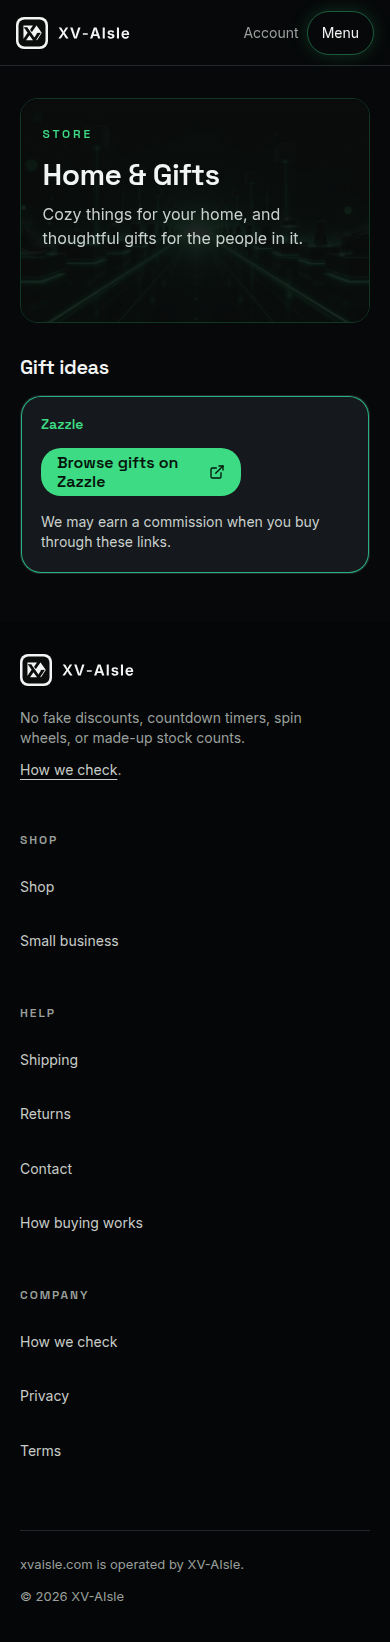
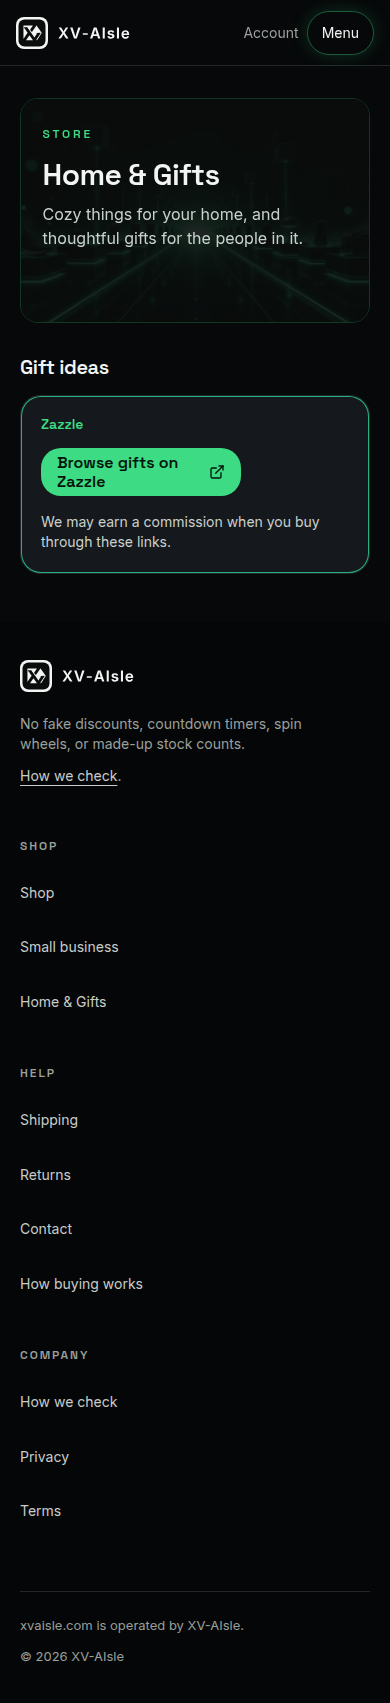
feat: extend the mid-width hero scrim and widen a lone Zazzle card
The 768 to 1023 hero scrim covers the text column the way the wider scrim already does. A single partner card uses the full-width tile size, footer taps are at least 44px, and an unset Bookshop link leaves no books column.

diff --git a/scripts/check-affiliates.ts b/scripts/check-affiliates.ts
@@ -23,7 +23,7 @@ async function main() {
   process.env.DATABASE_PATH = join(mkdtempSync(join(tmpdir(), "xvaisle-affiliate-")), "shop.sqlite");
   const affiliates = await import("../src/config/affiliates");
   const { AffiliateLink } = await import("../src/components/affiliate-link");
-  const { AffiliateSpot } = await import("../src/components/affiliate-spot");
+  const { AffiliateSpot, HomeGiftSpots } = await import("../src/components/affiliate-spot");
   const { DepartmentGrid } = await import("../src/components/department-grid");
   const { NightStalls } = await import("../src/components/night-stalls");
   const { homeGiftsListed, homepageMoreAisles, homepageNightSlugs, shopStallTabs, visibleItemCount } = await import("../src/lib/home-aisles");
@@ -247,7 +247,15 @@ async function main() {
   for (const phrase of ["Our current picks live in the aisles.", "New finds landing soon", "This aisle is quiet for now", "Browse the aisles"]) {
     assert(!emptyShop.includes(phrase) && !giftsPageHtml.includes(phrase), `the empty-aisle panel is hidden (${phrase})`);
   }
-  assert(!giftsPageHtml.includes('href="/shop?aisle=home-and-gifts"'), "Home & Gifts does not link back to itself");
+  assert(
+    !/href="\/shop\?aisle=home-and-gifts"[^>]*stall-tab|stall-tab[^>]*href="\/shop\?aisle=home-and-gifts"/.test(giftsPageHtml),
+    "Home & Gifts does not show a tile linking to itself",
+  );
+  assert(giftsPageHtml.includes('href="/shop?aisle=home-and-gifts"'), "the footer nav still opens Home & Gifts");
+  const soloGifts = renderToStaticMarkup(createElement(HomeGiftSpots));
+  assert(soloGifts.includes("partner-spot-solo") && !soloGifts.includes("Gift a book"), "an unset Bookshop link hides the books column");
+  const bothGifts = renderToStaticMarkup(createElement(HomeGiftSpots, { offers: filled }));
+  assert(!bothGifts.includes("partner-spot-solo") && bothGifts.includes("Gift a book"), "a Bookshop link brings the books column back");
   assert(!giftsPageHtml.includes("Our mission") && !giftsPageHtml.includes("Buyers pay on xvaisle.com"), "Home & Gifts hides the mission block and the buyers-pay line");
   const neighbor = renderToStaticMarkup(
     createElement(ShopScreen, {
@@ -255,7 +263,11 @@ async function main() {
       listings: [{ productId: "wheel", title: "Wheel", image: "/art/products/6-inch-yoga-wheel.jpg", aisle: "everyday-finds" }],
     }),
   );
-  assert(neighbor.includes('href="/shop?aisle=everyday-finds"') && !neighbor.includes('href="/shop?aisle=home-and-gifts"'), "an aisle keeps other tiles and drops its own");
+  assert(
+    neighbor.includes('href="/shop?aisle=everyday-finds"') &&
+      !/href="\/shop\?aisle=home-and-gifts"[^>]*stall-tab|stall-tab[^>]*href="\/shop\?aisle=home-and-gifts"/.test(neighbor),
+    "an aisle keeps other tiles and drops its own",
+  );
   assert(!emptyShop.includes("All aisles"), "an empty shop does not link All aisles back to itself");
   let shopRedirect = false;
   try {

diff --git a/src/app/globals.css b/src/app/globals.css
@@ -334,6 +334,17 @@
   }
 }
 
+@media (min-width: 768px) and (max-width: 1023px) {
+  .hero-text-scrim {
+    background: linear-gradient(
+      90deg,
+      color-mix(in srgb, var(--background) 72%, transparent) 0%,
+      color-mix(in srgb, var(--background) 72%, transparent) 82%,
+      transparent 94%
+    );
+  }
+}
+
 @keyframes hero-drift {
   0% {
     opacity: 0.45;
@@ -1686,6 +1697,22 @@ video.auth-plate-media {
   }
 }
 
+@media (min-width: 768px) and (max-width: 1023px) {
+  .hero-aisle-scrim {
+    background:
+      linear-gradient(
+        90deg,
+        rgba(7, 8, 10, 0.94) 0%,
+        rgba(7, 8, 10, 0.9) 48%,
+        rgba(7, 8, 10, 0.7) 70%,
+        rgba(7, 8, 10, 0.32) 84%,
+        rgba(7, 8, 10, 0.08) 94%,
+        transparent 100%
+      ),
+      linear-gradient(180deg, rgba(7, 8, 10, 0.16), transparent 18%, rgba(7, 8, 10, 0.28));
+  }
+}
+
 @media (max-width: 767px) {
   .hero-aisle-scrim {
     background: linear-gradient(
@@ -2844,6 +2871,21 @@ button.contact-submit {
   gap: 12px;
 }
 
+.shop-footer .footer-mark {
+  display: inline-flex;
+  align-items: center;
+  box-sizing: border-box;
+  min-width: var(--tap);
+  min-height: var(--tap);
+}
+
+.shop-footer .footer-links a {
+  box-sizing: border-box;
+  min-width: var(--tap);
+  min-height: var(--tap);
+  justify-content: flex-start;
+}
+
 .shop-footer ul {
   display: flex;
   flex-direction: column;
@@ -3522,6 +3564,25 @@ button.contact-submit {
   .partner-spot-row,
   .partner-spot-experiences .partner-spot-list {
     grid-template-columns: 1fr 1fr;
+  }
+
+  .partner-spot-row.partner-spot-solo {
+    grid-template-columns: 1fr;
+  }
+}
+
+@media (min-width: 768px) {
+  .partner-spot-solo .partner-card {
+    width: 100%;
+    aspect-ratio: 16 / 9;
+    max-height: 320px;
+  }
+}
+
+@media (min-width: 1024px) {
+  .partner-spot-solo .partner-card {
+    aspect-ratio: 21 / 9;
+    max-height: 360px;
   }
 }
 

diff --git a/src/components/shop-footer.tsx b/src/components/shop-footer.tsx
@@ -5,6 +5,7 @@ import { BrandMark } from "@/components/brand-mark";
 import { MissionValues } from "@/components/mission-values";
 import { useOptionalAccount } from "@/lib/account-store";
 import { AMAZON_ASSOCIATE_DISCLOSURE } from "@/lib/amazon-aisles";
+import { giftSpotsHaveLinks } from "@/config/affiliates";
 import { OPERATOR_ABOUT } from "@/config/operator-about";
 import { HOW_WE_CHECK_HREF } from "@/lib/honest-price";
 import { RETURN_WINDOW_DAYS } from "@/lib/policies";
@@ -59,7 +60,12 @@ export function ShopFooter({
   const operator = showReseller ?? signedInOperator;
   const shown = columns.map((column) => ({
     ...column,
-    links: operator ? column.links : column.links.filter((link) => !RESELLER_LINKS.has(link.href)),
+    links: [
+      ...(operator ? column.links : column.links.filter((link) => !RESELLER_LINKS.has(link.href))),
+      ...(column.title === "Shop" && giftSpotsHaveLinks()
+        ? [{ href: "/shop?aisle=home-and-gifts", label: "Home & Gifts" }]
+        : []),
+    ],
   }));
   return (
     <footer className="shop-footer mt-auto bg-[var(--footer)] pb-9">
@@ -67,7 +73,7 @@ export function ShopFooter({
       <div className={`mx-auto max-w-[1280px] px-5 sm:px-10 ${showBrandBlock ? "pt-16" : "pt-8"}`}>
         <div className="grid gap-10 sm:grid-cols-2 lg:grid-cols-[2fr_1fr_1fr_1fr]">
           <div>
-            <Link href="/" className="inline-flex">
+            <Link href="/" className="footer-mark">
               <BrandMark />
             </Link>
             <p className="mt-4 max-w-xs text-sm text-muted-foreground">

diff --git a/src/app/aisles/page.tsx b/src/app/aisles/page.tsx
@@ -3,6 +3,9 @@ import { AisleIndex } from "@/components/amazon-aisles";
 import { ShopFrame } from "@/components/shop-frame";
 import { experiencesSpotHasLinks } from "@/config/affiliates";
 import { AISLE_INDEX_COPY, AMAZON_AISLES } from "@/lib/amazon-aisles";
+import { homeGiftsListed } from "@/lib/home-aisles";
+import { nightWorldBySlug } from "@/lib/night-worlds";
+import { publicGridListings } from "@/lib/server/shop-catalog";
 
 export const metadata: Metadata = {
   title: AISLE_INDEX_COPY.title,
@@ -10,11 +13,13 @@ export const metadata: Metadata = {
 };
 
 export default function AislesPage() {
+  const gifts = homeGiftsListed(publicGridListings()) ? nightWorldBySlug("home-and-gifts") : undefined;
   return (
     <ShopFrame showStorePayLine={false} showBrandBlock={false}>
       <AisleIndex
         aisles={AMAZON_AISLES}
         includeTickets={experiencesSpotHasLinks() || (AMAZON_AISLES.find((aisle) => aisle.slug === "tickets-and-events")?.items.length ?? 0) > 0}
+        extras={gifts ? [{ href: "/shop?aisle=home-and-gifts", name: gifts.title, intro: gifts.story }] : []}
       />
     </ShopFrame>
   );

diff --git a/src/components/amazon-aisles.tsx b/src/components/amazon-aisles.tsx
@@ -62,9 +62,11 @@ function AiShoppersNote() {
 export function AisleIndex({
   aisles,
   includeTickets = false,
+  extras = [],
 }: {
   aisles: readonly AmazonAisle[];
   includeTickets?: boolean;
+  extras?: readonly { href: string; name: string; intro: string }[];
 }) {
   const live = [
     ...liveAisles(aisles),
@@ -76,6 +78,16 @@ export function AisleIndex({
       {AISLE_INDEX_COPY.intro ? <p className="affiliate-intro">{AISLE_INDEX_COPY.intro}</p> : null}
       <AiShoppersNote />
       <ul className="affiliate-index">
+        {extras.map((extra) => (
+          <li key={extra.href}>
+            <Link href={extra.href} className="affiliate-tile">
+              <span className="affiliate-tile-copy">
+                <h2 className="affiliate-card-name">{extra.name}</h2>
+                {extra.intro ? <p className="affiliate-blurb affiliate-tile-intro">{extra.intro}</p> : null}
+              </span>
+            </Link>
+          </li>
+        ))}
         {live.map((aisle) => (
           <li key={aisle.slug}>
             <Link href={`/aisles/${aisle.slug}`} className="affiliate-tile">

diff --git a/src/components/affiliate-spot.tsx b/src/components/affiliate-spot.tsx
@@ -41,13 +41,13 @@ export function AffiliateSpot({
 
 /** Bookshop and Zazzle sit side by side once either card has a link. */
 export function HomeGiftSpots({ offers = AFFILIATE_OFFERS }: { offers?: readonly AffiliateOffer[] }) {
-  const books = visibleAffiliateOffers("books", null, offers);
-  const gifts = visibleAffiliateOffers("gifts", null, offers);
-  if (books.length === 0 && gifts.length === 0) return null;
+  const spots = (["books", "gifts"] as const).filter((spot) => visibleAffiliateOffers(spot, null, offers).length > 0);
+  if (spots.length === 0) return null;
   return (
-    <div className="partner-spot-row">
-      <AffiliateSpot spot="books" offers={offers} />
-      <AffiliateSpot spot="gifts" offers={offers} />
+    <div className={spots.length === 1 ? "partner-spot-row partner-spot-solo" : "partner-spot-row"}>
+      {spots.map((spot) => (
+        <AffiliateSpot key={spot} spot={spot} offers={offers} />
+      ))}
     </div>
   );
 }

diff --git a/src/app/sitemap.ts b/src/app/sitemap.ts
@@ -5,6 +5,8 @@ import { visibleOnShop } from "@/lib/server/starter-shelf";
 import { appOrigin } from "@/lib/server/stripe";
 import { listPublished } from "@/lib/server/store";
 import { liveAislePaths } from "@/lib/amazon-aisles";
+import { homeGiftsListed } from "@/lib/home-aisles";
+import { publicGridListings } from "@/lib/server/shop-catalog";
 import { hasRealProductPhoto } from "@/lib/shop-photo";
 import { comingSoonListing } from "@/lib/supplier-confirm";
 
@@ -51,6 +53,7 @@ export default async function sitemap(): Promise<MetadataRoute.Sitemap> {
   const pages = [
     ...SITEMAP_PATHS.map((path) => `${origin}${path}`),
     ...liveAislePaths().map((path) => `${origin}${path}`),
+    ...(homeGiftsListed(publicGridListings()) ? [`${origin}/shop?aisle=home-and-gifts`] : []),
   ];
   const products = listPublished()
     .filter(sitemapListsProduct)
